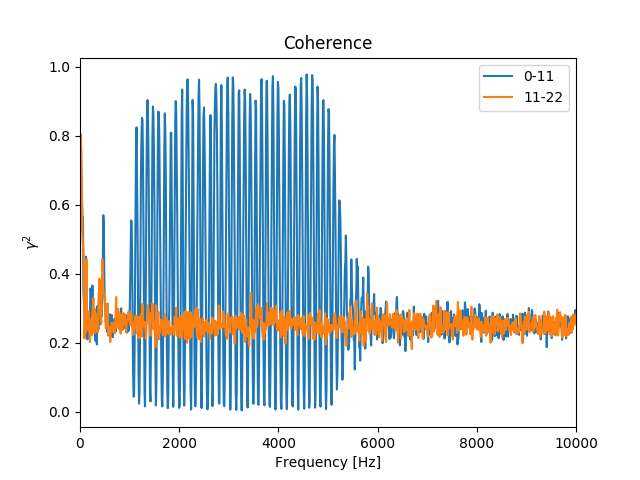
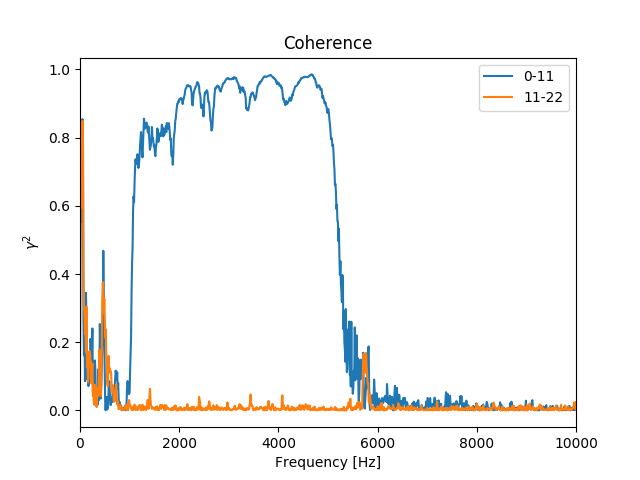
sigA fix crossSpec

Changed region(s): [[0.0625, 0.1562, 0.9062, 0.875], [0.0625, 0.8438, 0.125, 0.875], [0.0625, 0.125, 0.125, 0.1562]]

diff --git a/ACS597_SigAnalysis/sigA.py b/ACS597_SigAnalysis/sigA.py
@@ -136,7 +136,7 @@ def spectroArray(x_time, fs, sliceLength, sync=0,overlap=0,winType="uniform"):
     freqAvg = freqVec(sliceLength, fs)[:int(sliceLength/2)]
     _, delF_Avg, _ = param(sliceLength, fs, show=False)
 
-    return GxxAvg, freqAvg, delF_Avg, Gxx, x_ms
+    return GxxAvg, freqAvg, delF_Avg, Gxx#, x_ms
 
 def spectrogram(x_time, fs, sliceLength, sync=0, overlap=0,color="jet", dB=True, winType="uniform", scale=True):
     N = len(x_time)
@@ -194,7 +194,7 @@ def ssCrossSpec(x_time,y_time,fs,winType="uniform"):
     for i in range(len(G_XY)):
         if not((i != 0) or (i == (len(G_XY) - 1) and odd)):
             G_XY[i] = (G_XY[i]) * 0.5
-    return abs(G_XY)
+    return G_XY
 
 def crossSpectroArray(x_time,y_time, fs, sliceLength, sync=0,overlap=0,winType="uniform"):
     overlap = np.abs(overlap)

diff --git a/ACS597_SigAnalysis/SubHarmonics.py b/ACS597_SigAnalysis/SubHarmonics.py
@@ -1,0 +1,49 @@
+# PSUACS
+# SubHarmonics
+# Jasser Alshehri
+# Starkey Hearing Technologies
+# 11/5/2018
+
+
+import numpy as np
+import matplotlib.pyplot as plt
+from numpy import pi, sin, cos, tan, exp
+import sigA
+
+def main(args):
+    fs = 44.1E3
+    T = 0.5
+    N = int(T*fs)
+
+    f = 200.
+
+    t = sigA.timeVec(N,fs)
+
+    base = sin(2 * pi * (f) * t)
+
+    ### Harmonics
+    for i in range(50):
+        if i > 1:
+            base += (1./i)*sin(2*pi*(i*f)*t)
+
+    for i in range(50):
+        if i > 1:
+            base += (1. / i) * sin(2 * pi * (f/i) * t)
+
+    resp = np.fft.fft(base)
+
+
+    plt.figure()
+    plt.plot(t,base)
+
+    plt.figure()
+    plt.plot(abs(resp))
+    plt.show()
+
+    return 0
+
+
+if __name__ == '__main__':
+    import sys
+
+    sys.exit(main(sys.argv))

diff --git a/ACS597_SigAnalysis/ACS597_SigA_Quiz2.py b/ACS597_SigAnalysis/ACS597_SigA_Quiz2.py
@@ -24,8 +24,8 @@ def main(args):
     recLength = recDuration*fs
 
     #part1(data_3BB, fs,ov,win,recLength)
-    #part2(data_1BB,data_3BB,fs,ov,win,recLength)
-    part3(data_3BB, fs, show=True)
+    part2(data_1BB,data_3BB,fs,ov,win,recLength)
+    #part3(data_3BB, fs, show=True)
     #dataFiltered = part3(data_3BB,fs,show=False)
     #part4(dataFiltered,fs)
     return 0
